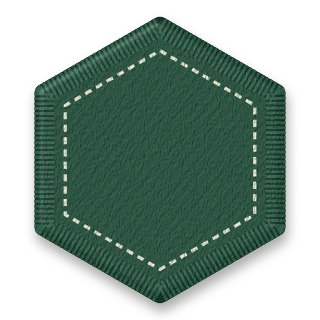
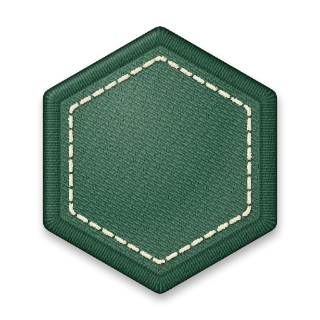
Finish the stitched badges and make phones load new art
Rebuilds the last six badges and every category's blank patch in the stitched
style: Boo Crew, Holiday Hopper and Night Swimmer on a black scalloped patch
with a gold rim and ribbon, and Plot Twist, Full Send and Comeback Kid on a
charcoal circle with gold accents. Holiday Hopper is now a wrapped gift
instead of a beach umbrella.

Badge images now load as badges/<key>.webp?v=<BADGE_ART>. Phones kept showing
the old Founding Local patch because the new art reused the same URL; bumping
BADGE_ART in index.html after a rebuild makes them fetch the new images.

Every badge is now drawn by scripts/patches, so the old generator
(scripts/build-badges.mjs) and badges/patches.json are removed, and the README
explains the new workflow.

Claude-Session: https://claude.ai/code/session_01NTXNrPMcfJtTLtLehY5rud

diff --git a/index.html b/index.html
@@ -2360,7 +2360,7 @@ async function loadMyPoints(){
 // The database works out progress from verified check-ins and saves what you've earned; the phone keeps a copy to show offline.
 // On the Passport: your title as a pill on the cover, and a shelf with your newest badges and the next one to earn.
 // The shelf opens the Badges screen; a badge opens its sheet, where you wear its title.
-// Earned badges are embroidered patch images (badges/<key>.webp, see scripts/build-badges.mjs); each category has its own
+// Earned badges are embroidered patch images (badges/<key>.webp, see scripts/patches); each category has its own
 // shape and a blank patch for badges that don't have art yet. Locked ones are the shape's outline, stitched in as you go.
 const BADGE_SECTIONS=[['everyday','Everyday regulars','circle',C.red],['habits','Habits','circle',C.blue],['explore','Exploring LA','hex',C.green],
   ['kinds','Kinds of outing','diamond',C.sun],['contributing','Contributing','hex','#E08A6E'],['seasonal','Seasonal','scallop','#A67C1E'],['hidden','Hidden','circle',C.ink]];
@@ -2388,9 +2388,11 @@ async function loadBadges(force){
 }
 // a badge's mark: its stamp once earned, otherwise a ring that fills as you go
 // a badge's mark: its patch once earned, otherwise its shape's outline with progress stitched around the edge
+// Bump BADGE_ART whenever badges/*.webp change: phones keep the old image under the same URL otherwise.
+const BADGE_ART='2026-10-27';
 function badgeIcon(b,size){
-  const look=badgeLook(b), blank=`badges/section-${look[0]}.webp`;
-  if(b.earned_at) return `<img class="patch" src="${/^[a-z0-9_-]+$/i.test(b.key)? `badges/${b.key}.webp` : blank}" width="${size}" height="${size}" alt="${escH(b.name)}, earned" onerror="this.onerror=null;this.src='${blank}'">`;
+  const look=badgeLook(b), blank=`badges/section-${look[0]}.webp?v=${BADGE_ART}`;
+  if(b.earned_at) return `<img class="patch" src="${/^[a-z0-9_-]+$/i.test(b.key)? `badges/${b.key}.webp?v=${BADGE_ART}` : blank}" width="${size}" height="${size}" alt="${escH(b.name)}, earned" onerror="this.onerror=null;this.src='${blank}'">`;
   const d=BADGE_SHAPES[look[2]], pct=Math.round(b.progress/b.goal*100);
   return `<svg width="${size}" height="${size}" viewBox="-72 -72 144 144" role="img" aria-label="${escH(b.name)}, ${b.progress} of ${b.goal}"><path d="${d}" fill="#EFE2C8" stroke="#CDBF9F" stroke-width="3" stroke-dasharray="6 5"/>${pct?`<path d="${d}" fill="none" stroke="${look[3]}" stroke-width="8" pathLength="100" stroke-dasharray="${pct} 100"/>`:''}<text y="8" text-anchor="middle" font-family="Caveat" font-weight="700" font-size="24" fill="${C.muted}">${b.progress} of ${b.goal}</text></svg>`;
 }

diff --git a/README.md b/README.md
@@ -52,10 +52,10 @@ or switch one off (`active = false`), in Supabase > Table Editor and the app pic
 metric in `achievement_progress()`; see the top of `supabase/achievements.sql`.
 
 Each badge is an embroidered patch image in `badges/` (`badges/<key>.webp`, the key from the `achievements` table). The
-current set is illustrated art; to replace one, save the new image over `badges/<key>.webp` (square, transparent background).
-A new badge can start as a drawn patch: add it to `badges/patches.json` (category, ribbon text, tier and icon) and run
-`node scripts/build-badges.mjs`, which only draws badges that don't have illustrated art. A badge with no image at all shows
-its category's blank patch.
+patches are drawn in code in `scripts/patches/`: `patch.cjs` is the patch itself (fabric, rim, stitching, ribbon) with a
+shape and colors per category, and `icons-<category>.cjs` hold each badge's ribbon text and icon. To add or change one,
+edit its icon set and run `node scripts/patches/build.cjs <key>`, then bump `BADGE_ART` in `index.html` so phones load
+the new image. A badge with no image yet shows its category's blank patch (`badges/section-<category>.webp`).
 
 ## Team checks
 
